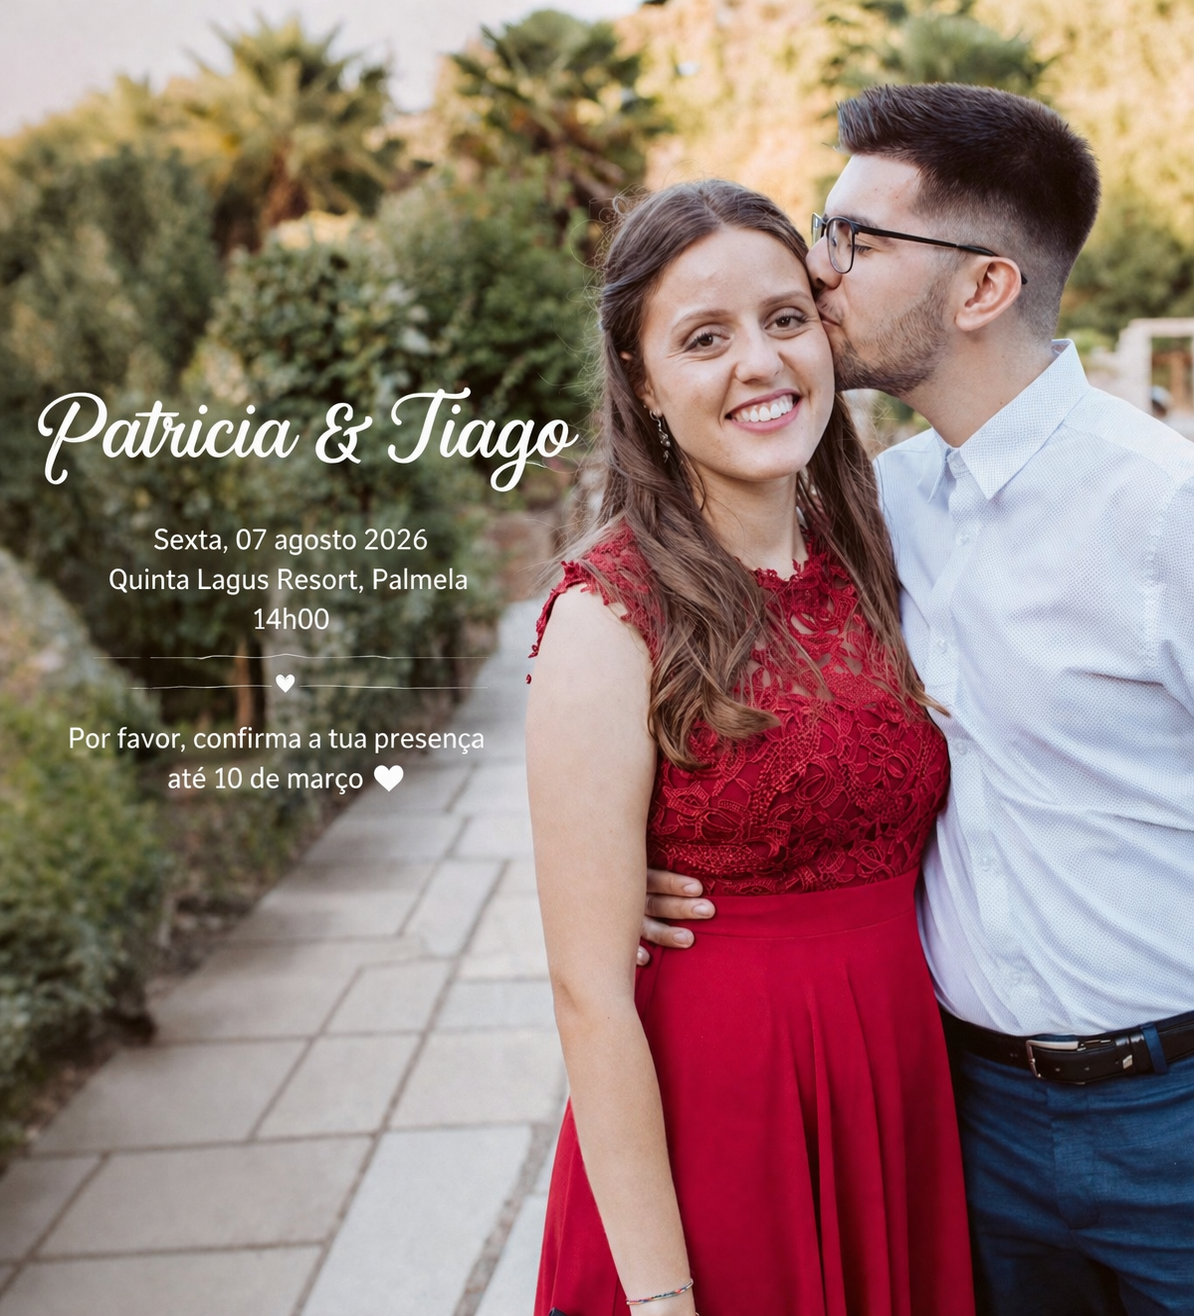
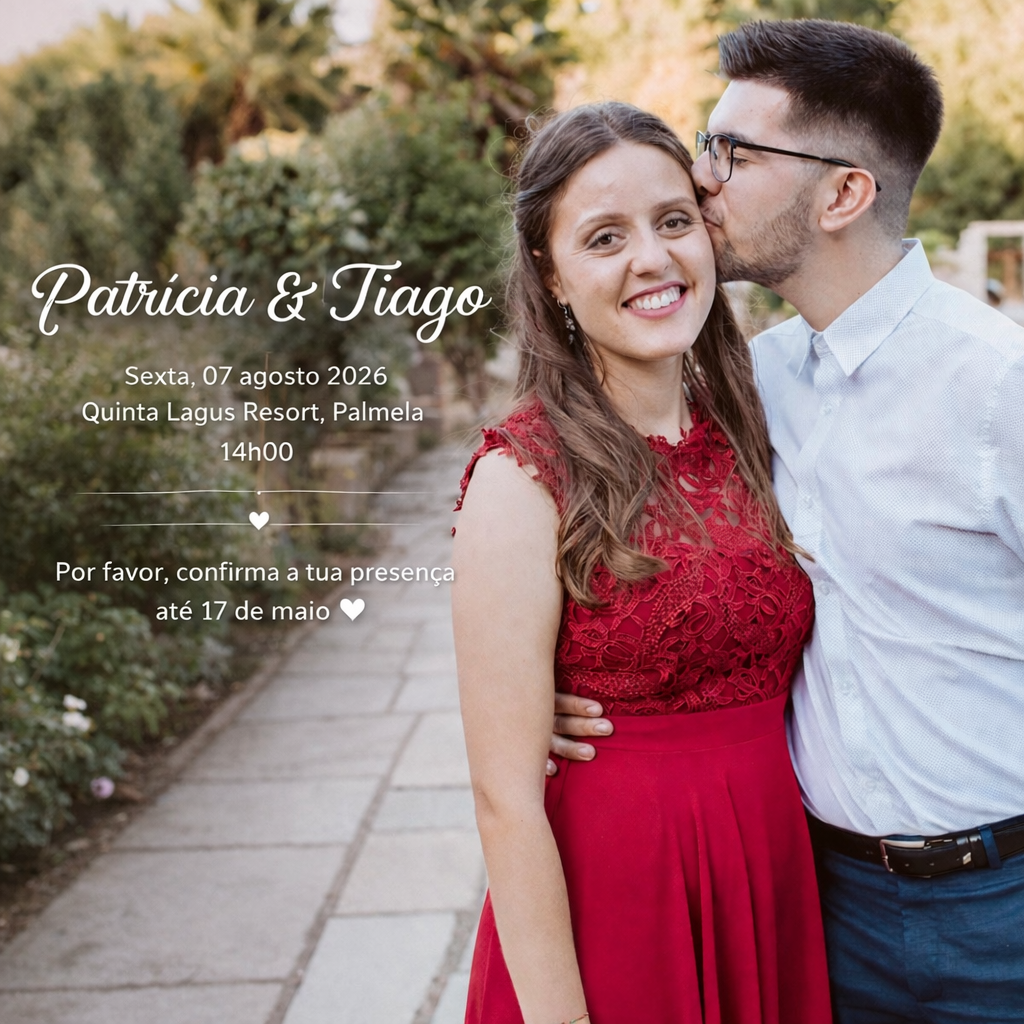
Change header image

diff --git a/css/menikah.css b/css/menikah.css
@@ -44,7 +44,7 @@ html {
   background-size: 100% auto;
   background-repeat: no-repeat;
   width: 100%;
-  aspect-ratio: 1194 / 1316;
+  aspect-ratio: 1024 / 1024;
   height: auto;
   overflow: hidden;
   color: white;
